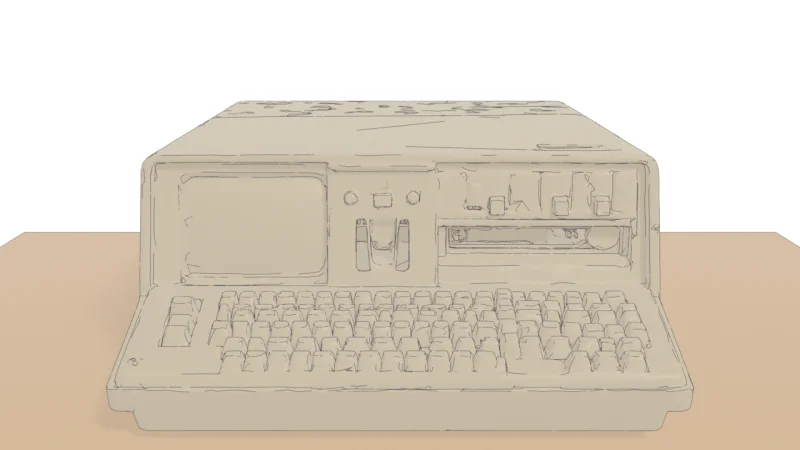
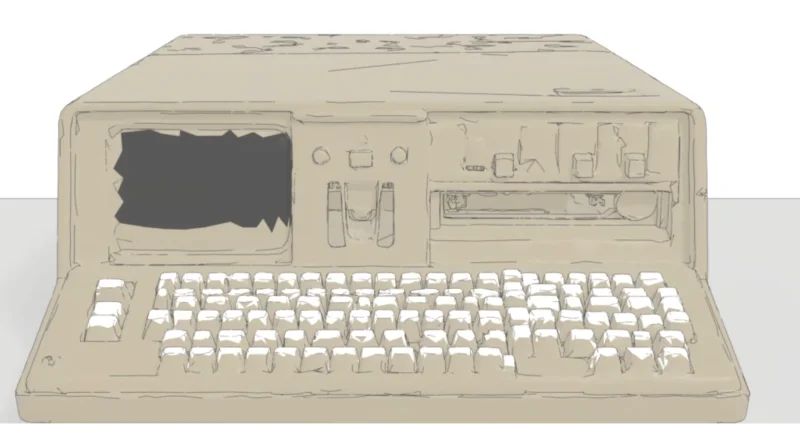
Draft Saw #18: Mike's updated 5100 render (better contrast)

diff --git a/_drafts/saw-fine-tuning-manifolds-ray-reva.md b/_drafts/saw-fine-tuning-manifolds-ray-reva.md
@@ -123,7 +123,7 @@ It can draw now, too. [IUP](https://iup.sourceforge.io/) is a portable toolkit f
 <div style="font-size: 0.75em; line-height: 1.2;">IBM 2741 terminal</div>
 </div>
 <div style="flex: 1; min-width: 0; text-align: center;">
-<img src="{{ '/assets/images/posts/saw18-ibm5100.webp' | relative_url }}" class="no-invert" alt="A render of the IBM 5100 portable computer from the front: a small screen, switches and a tape slot above its keyboard" style="width: 100%;">
+<img src="{{ '/assets/images/posts/saw18-ibm5100.webp' | relative_url }}" class="no-invert" alt="A render of the IBM 5100 portable computer from the front, in beige: a small screen, switches and a tape slot above its keyboard" style="width: 100%;">
 <div style="font-size: 0.75em; line-height: 1.2;">IBM 5100</div>
 </div>
 <div style="flex: 1; min-width: 0; text-align: center;">
